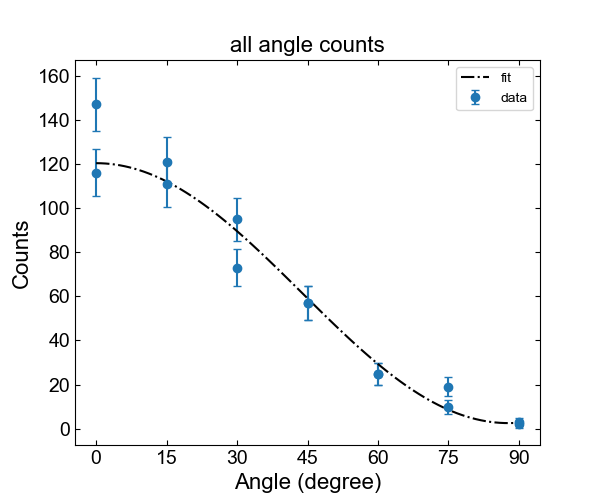
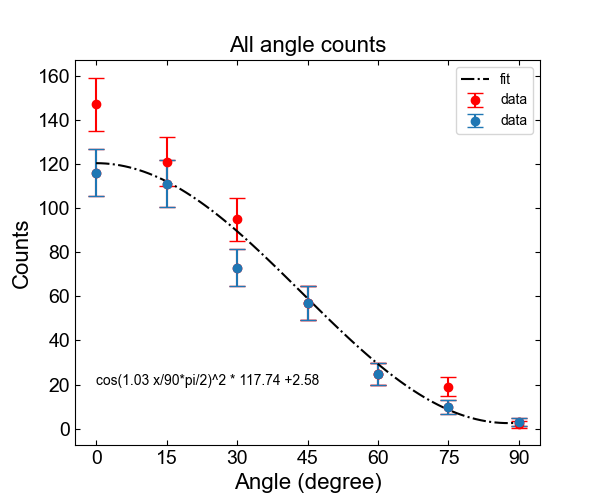
Etager

diff --git a/Databehandling_vinkler.py b/Databehandling_vinkler.py
@@ -133,13 +133,14 @@ print('kombinerede usikkerheder:',perr)
 chmin = np.sum(((y-funlin(x, *popt))/yler)**2)
 print('chi2:',chmin,' ---> p:', ss.chi2.cdf(chmin,4))
 
-ax1.errorbar(xc, yc, ylerc, fmt="o", ms=6, capsize= 3, label = "data",color = 'r')
-ax1.errorbar(x, y, yler, fmt="o", ms=6, capsize= 3, label = "data")
+ax1.errorbar(xc, yc, ylerc, fmt="o", ms=6, capsize= 6, label = "data",color = 'r')
+ax1.errorbar(x, y, yler, fmt="o", ms=6, capsize= 6, label = "data")
 ax1.plot(xhelp1, funlin(xhelp1, *popt), 'k-.', label = "fit")
 ax1.legend()
 ax1.set_ylabel("Counts")
 ax1.set_xlabel("Angle (degree)")
 ax1.set_xticks(ticks = np.linspace(0, 90, 7))
-ax1.set_title("all angle counts")
+ax1.set_title("All angle counts")
+ax1.text(0,20,'cos('+str(round(popt[0],2))+' x/90*pi/2)^2 * '+ str(round(popt[1],2))+ ' +'+str(round(popt[2],2)))
 fig1.savefig("angles combined")
 fig1.show()

diff --git a/Databehandling etage.py b/Databehandling etage.py
@@ -80,11 +80,12 @@ uyl = uy ** 0.5
 ax.errorbar(ux,uy,uyl, fmt="o", ms=6, capsize= 3, label = "data outside",color= 'r')
 ax.errorbar(x, y, yler, fmt="o", ms=6, capsize= 3, label = "data")
 ax.plot(xhelp1, funlin(xhelp1, *popt), 'k-.', label = "fit")
-ax.legend()
+ax.text(0,150,'f(x) = exp('+str(6e-4)+'x)'+str(round(popt[0],2))+'+'+str(round(popt[2],2)),fontsize='x-large')
 ax.set_ylabel("Counts")
 ax.set_xlabel("Altitude (cm)")
 ax.set_xticks(ticks = np.linspace(0, 3200, 5))
 ax.set_title("Counts as a function of altitude")
+
 ax.grid()
 
 plt.savefig('etager')
